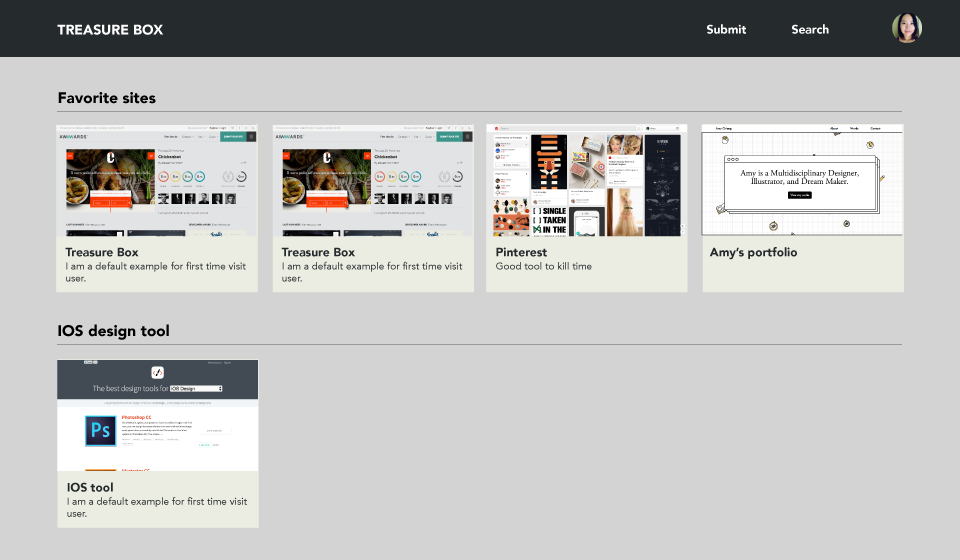
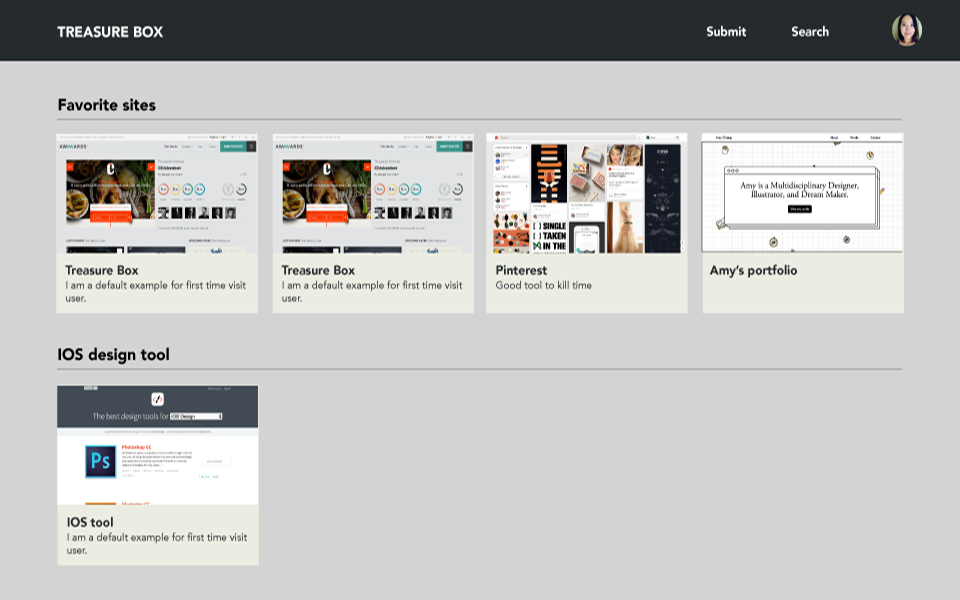
adding screenshot capture, fixing and polishing different parts of the frontend

diff --git a/bookmarks/templates/angular.html b/bookmarks/templates/angular.html
@@ -6,13 +6,13 @@
     <nav class="navbar navbar-inverse navbar-fixed-top">
         <div class="container-fluid">
             <div class="navbar-header">
-                <a class="navbar-brand" href="#">TREASURE BOX</a>
-                <ul class="nav navbar-nav">
-                    <li><a href ng-click="newTreasure();">Submit</a></li>
-                    <li><a href ng-click="newSearch();">Search</a></li>
-                    <!--<li><a href="#">Profile</a></li>-->
-                </ul>
+                <a class="navbar-brand" href="#/">TREASURE BOX</a>
             </div>
+            <ul class="nav navbar-nav navbar-right">
+                <li><a href ng-click="newTreasure();">Submit</a></li>
+                <li><a href ng-click="newSearch();">Search</a></li>
+                <!--<li><a href="#">Profile</a></li>-->
+            </ul>
         </div>
     </nav>
     <script type="text/ng-template" id="addTreasure.html">
@@ -21,20 +21,20 @@
                 <h3>
                     Paste your URL here
                 </h3>
-                <input placeholder="www.treasurebox.io" ng-model="newTreasure.url" />
+                <input type="text" placeholder="ex. http://www.treasurebox.io" ng-model="newTreasure.url" />
                 <h3>
                     Title
                 </h3>
-                <input placeholder="Favorites" ng-model="newTreasure.title" />
+                <input type="text" placeholder="ex. collect my fav sites" ng-model="newTreasure.title" />
                 <h4>
                     Description
                 </h4>
-                <input placeholder="Hey, keep it short" ng-model="newTreasure.description" />
+                <input type="text" placeholder="Hey, keep it short" ng-model="newTreasure.description" />
                 <h3>
                     Categories
                 </h3>
                 <div>
-                    <input type="radio" name="category" value="{{ newCategory }}" ng-model="newTreasure.categorySelection"><input placeholder="Add a new category" ng-model="newCategory">
+                    <input type="radio" name="category" value="{{ newCategory }}" ng-model="newTreasure.categorySelection"><input type="text" placeholder="Add a new category" ng-model="newCategory">
                     <div ng-repeat="category in categories">
                         <input type="radio" name="category" value="{{ category.name }}" ng-model="newTreasure.categorySelection"/>{{ category.name }}
                     </div>
@@ -51,7 +51,7 @@
                 <h3>
                     Search
                 </h3>
-                <input placeholder="Keyword here..." ng-model="searchTerm" />
+                <input type="text" placeholder="Keyword here..." ng-model="searchTerm" />
 
                 <button ng-click="findTreasure()">
                     Search

diff --git a/bookmarks/static/js/controllers/application.js b/bookmarks/static/js/controllers/application.js
@@ -1,16 +1,4 @@
-treasureBox.controller("applicationController", function($scope, $http, $modal, $location) {
-    $http.get('api/v1/categories').success(function(categoryData) {
-        $scope.categories = categoryData.results;
-    }).error(function(error) {
-        console.log(error);
-    });
-
-    $http.get('api/v1/bookmarks').success(function(bookmarkData) {
-        $scope.treasures = bookmarkData.results;
-    }).error(function(error) {
-        console.log(error);
-    });
-
+treasureBox.controller("applicationController", function($scope, $rootScope, $http, $modal, $location) {
 	$scope.newTreasure = function() {
 		var addTreasure = $modal.open({
 			templateUrl: 'addTreasure.html',
@@ -18,18 +6,18 @@ treasureBox.controller("applicationController", function($scope, $http, $modal, 
             backdropClass: 'modalBackdrop',
 			resolve: {
 				categories: function() {
-					return $scope.categories;
+					return $rootScope.categories;
 				}
 			}
 		});
 
 		addTreasure.result.then(function(newTreasure) {
-			if (_.find($scope.categories, {name: newTreasure.categorySelection})) {
-				$scope.treasures.push(newTreasure);
+			if (_.find($rootScope.categories, {name: newTreasure.category.name})) {
+				$rootScope.treasures.unshift(newTreasure);
 			}
 			else {
-				$scope.categories.push({name: newTreasure.categorySelection});
-				$scope.treasures.push(newTreasure);
+				$rootScope.categories.push({name: newTreasure.category.name});
+				$rootScope.treasures.unshift(newTreasure);
 			}
 		});
 	};
@@ -59,8 +47,8 @@ treasureBox.controller('addTreasureController', function($scope, $http, $modalIn
             url: $scope.newTreasure.url
         };
 
-        $http.post('api/v1/bookmarks/', data).success(function(bookmarkCollection) {
-            $modalInstance.close($scope.newTreasure);
+        $http.post('api/v1/bookmarks/', data).success(function(treasureResult) {
+            $modalInstance.close(treasureResult);
         }).error(function(errorResponse) {
             console.log(errorResponse);
         });

diff --git a/bookmarks/static/js/app.js b/bookmarks/static/js/app.js
@@ -9,7 +9,6 @@ treasureBox.config(['$routeProvider', function($routeProvider) {
         }).
         when('/search', {
             templateUrl: '/static/views/search.html',
-//            controller: 'searchController',
             title: 'Search'
         }).
         when('/login', {
@@ -25,15 +24,23 @@ treasureBox.config(['$httpProvider', function($httpProvider) {
     $httpProvider.defaults.xsrfHeaderName = 'X-CSRFToken';
 }]);
 
-treasureBox.run(function run($rootScope, $cookieStore, Restangular, $http) {
-    var authToken = $cookieStore.get('userCookie');
-    if (authToken) {
+treasureBox.run(function($rootScope, $location, $cookieStore, Restangular, $http) {
+    $rootScope.setAuthToken = function(authToken) {
         $rootScope.authToken = authToken;
         $http.defaults.headers.common['Content-Type'] = 'application/json';
         $http.defaults.headers.common['Authorization'] = 'Bearer ' + authToken;
-    }
-});
+    };
 
-
-
-
+    // register listener to watch route changes
+    $rootScope.$on("$locationChangeStart", function (event, next, current) {
+        if ($rootScope.authToken == null) {
+            var authToken = $cookieStore.get('userCookie');
+            if (authToken) {
+                $rootScope.setAuthToken(authToken)
+            } else if (next.templateUrl != "/static/views/login.html") {
+                // not going to #login, we should redirect now
+                $location.path("/login");
+            }
+        }
+    });
+ });

diff --git a/bookmarks/static/js/controllers/login.js b/bookmarks/static/js/controllers/login.js
@@ -1,13 +1,11 @@
-function loginController($scope, $http, $cookieStore, $location) {
+function loginController($scope, $rootScope, $http, $cookieStore, $location) {
     $scope.username = "";
     $scope.password = "";
 
     $scope.login = function() {
         var authdata = btoa($scope.username + ':' + $scope.password);
-        console.log(authdata);
         $http.get("api/v1/login/", {headers: {"Authorization": "Basic " + authdata}}).
             success(function(data, status, headers, config) {
-                console.log('first success');
                 $http({
                     method: "POST",
                     url: "api/v1/o/token/",
@@ -27,11 +25,10 @@ function loginController($scope, $http, $cookieStore, $location) {
                         password: $scope.password
                     }
                 }).success(function(data, status, headers, config) {
-                    console.log('second success');
                     $cookieStore.put("userCookie", data.access_token);
+                    $rootScope.setAuthToken(data.access_token);
                     $location.path("/");
                 }).error(function(data, status, headers, config) {
-                    console.log("Something went wrong");
                     console.log(data);
                 });
             });

diff --git a/bookmarks/static/js/rasterize.js b/bookmarks/static/js/rasterize.js
@@ -1,0 +1,31 @@
+var page = require('webpage').create(), address, output, size;
+
+if (phantom.args.length < 2 || phantom.args.length > 3) {
+    console.log('Usage: rasterize.js URL filename');
+    phantom.exit();
+} else {
+    address = phantom.args[0];
+    output = phantom.args[1];
+    page.viewportSize = { width: 1280, height: 800 };
+    page.clipRect = { top: 0, left: 0, width: 1280, height: 800 };
+//    page.paperSize = {
+//        format: "A4",
+//        orientation: "portrait"
+//    }
+    page.settings.localToRemoteUrlAccessEnabled = true;
+    page.settings.javascriptEnabled = true;
+    page.settings.loadImages = true;
+    page.open(address, function (status) {
+        if (status == 'fail') {
+            console.log('Unable to load the address!');
+            phantom.exit();
+        } 
+
+        if (status == 'success') {
+            window.setTimeout(function () {
+                page.render(output);
+                phantom.exit();
+            }, 2000);
+        }
+    });
+}

diff --git a/bookmarks/static/js/directives/treasure.js b/bookmarks/static/js/directives/treasure.js
@@ -2,6 +2,14 @@ treasureBox.directive('treasure', function() {
 	return {
 		restrict: 'E',
 		templateUrl: '/static/js/directives/templates/treasure.html',
-//		template: "<a href='http://{{ treasureSite.url }}' /><div class='col-md-3 treasureItem'><div>Title: {{ treasureSite.title }}</div><div>Description: {{ treasureSite.description }}</div></div></a>"
+        link: function (scope, element, attrs){
+            scope.treasureImage = function(treasureSite) {
+                if (treasureSite.screenshot) {
+                    return "static/media/" + treasureSite.screenshot
+                } else {
+                    return "static/img/3.png"
+                }
+            }
+        }
 	}
 });

diff --git a/bookmarks/static/views/login.html b/bookmarks/static/views/login.html
@@ -1,11 +1,20 @@
-<div class="container" id="loginContainer">
+<div class="container header">
     <div class="row">
         <div class="col-md-12">
+            <h2>Login!</h2>
+            <hr>
+        </div>
+    </div>
+</div>
+
+<div class="container" id="loginContainer">
+    <div class="row">
+        <div class="loginForm col-md-12">
             <div>
                 Username: <input ng-model="username" />
             </div>
             <div>
-                Password: <input ng-model="password" />
+                Password: <input type="password" ng-model="password" />
             </div>
             <button ng-click="login();">
                 Login

diff --git a/bookmarks/static/js/controllers/index.js b/bookmarks/static/js/controllers/index.js
@@ -1,3 +1,13 @@
-treasureBox.controller("indexController", function($scope) {
+treasureBox.controller("indexController", function($scope, $rootScope, $http) {
+    $http.get('api/v1/categories/').success(function(categoryData) {
+        $rootScope.categories = categoryData.results;
+    }).error(function(error) {
+        console.log(error);
+    });
 
+    $http.get('api/v1/bookmarks/').success(function(bookmarkData) {
+        $rootScope.treasures = bookmarkData.results;
+    }).error(function(error) {
+        console.log(error);
+    });
 });

diff --git a/bookmarks/static/js/directives/templates/treasure.html b/bookmarks/static/js/directives/templates/treasure.html
@@ -1,7 +1,7 @@
 <div class="col-sm-6 col-md-4">
     <div class="thumbnail with-caption">
         <a href="{{ treasureSite.url }}" target="_blank">
-            <img src="static/img/3.png">
+            <img ng-src="{{ treasureImage(treasureSite) }}">
             <h3>{{ treasureSite.title }}</h3>
             <p>{{ treasureSite.description }}</p>
         </a>

diff --git a/bookmarks/static/css/search.css b/bookmarks/static/css/search.css
@@ -1,3 +1,8 @@
-#searchContainer {
-    /*margin-top: 100px;*/
+.modal-body input[type=text] {
+    width: 300px;
+}
+
+.modal-body input[type=radio] {
+    margin-right: 10px;
+    margin-bottom: 15px;
 }

diff --git a/bookmarks/static/css/login.css b/bookmarks/static/css/login.css
@@ -1,3 +1,3 @@
-#loginContainer {
-    margin-top: 100px;
+.loginForm > div {
+    margin-bottom: 15px;
 }

diff --git a/bookmarks/api/views.py b/bookmarks/api/views.py
@@ -1,5 +1,10 @@
+from django.conf import settings
+from django.core.files import File
+import os
 from rest_framework import viewsets
 from rest_framework.exceptions import ParseError
+import uuid
+import envoy
 from bookmarks.api.permissions import IsBookmarkOwner
 from bookmarks.api.serializers import CategorySerializer, BookmarkSerializer
 from bookmarks.models import Category, Bookmark
@@ -10,6 +15,10 @@ class CategoryViewSet(viewsets.ModelViewSet):
     queryset = Category.objects.all()
     serializer_class = CategorySerializer
     permission_classes = (IsOwner,)
+
+    def get_queryset(self):
+        queryset = super(CategoryViewSet, self).get_queryset()
+        return queryset.filter(user=self.request.user)
 
     def pre_save(self, obj):
         obj.user = self.request.user
@@ -22,6 +31,10 @@ class BookmarkViewSet(viewsets.ModelViewSet):
     permission_classes = (IsBookmarkOwner,)
     search_fields = ('title', 'description')
 
+    def get_queryset(self):
+        queryset = super(BookmarkViewSet, self).get_queryset()
+        return queryset.filter(category__user=self.request.user)
+
     def pre_save(self, obj):
         if "category_name" in self.request.DATA and self.request.DATA["category_name"]:
             category, created = Category.objects.get_or_create(user=self.request.user,
@@ -31,4 +44,23 @@ class BookmarkViewSet(viewsets.ModelViewSet):
             obj.category = category
         else:
             raise ParseError("Missing category")
+
         super(BookmarkViewSet, self).pre_save(obj)
+
+    def post_save(self, obj, created=False):
+        super(BookmarkViewSet, self).post_save(obj)
+
+        if "url" in self.request.DATA and self.request.DATA["url"]:
+            static_root = os.path.join(settings.PROJECT_ROOT, "bookmarks/", settings.STATIC_URL.strip("/"))
+            outfile = os.path.join("/tmp", '%s.jpg' % uuid.uuid4())
+            command = "phantomjs {0}/js/rasterize.js {1} {2}".format(static_root, self.request.DATA["url"], outfile)
+
+            r = envoy.run(command)
+            if r.status_code != 0:
+                raise ParseError("Screenshot failed")
+
+            if os.path.exists(outfile):
+                obj.screenshot.save("{}.jpg".format(obj.pk), File(open(outfile, 'rb')))
+                obj.save()
+            else:
+                raise ParseError("Screenshot failed")
